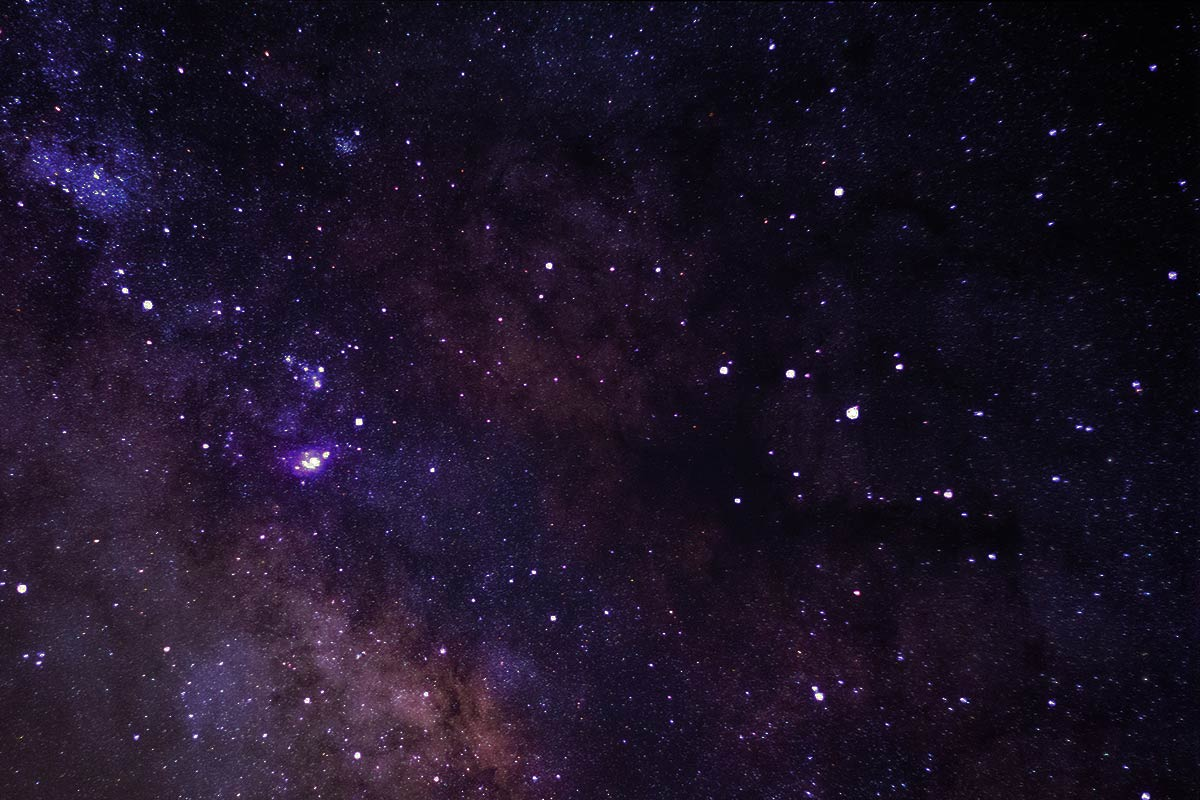
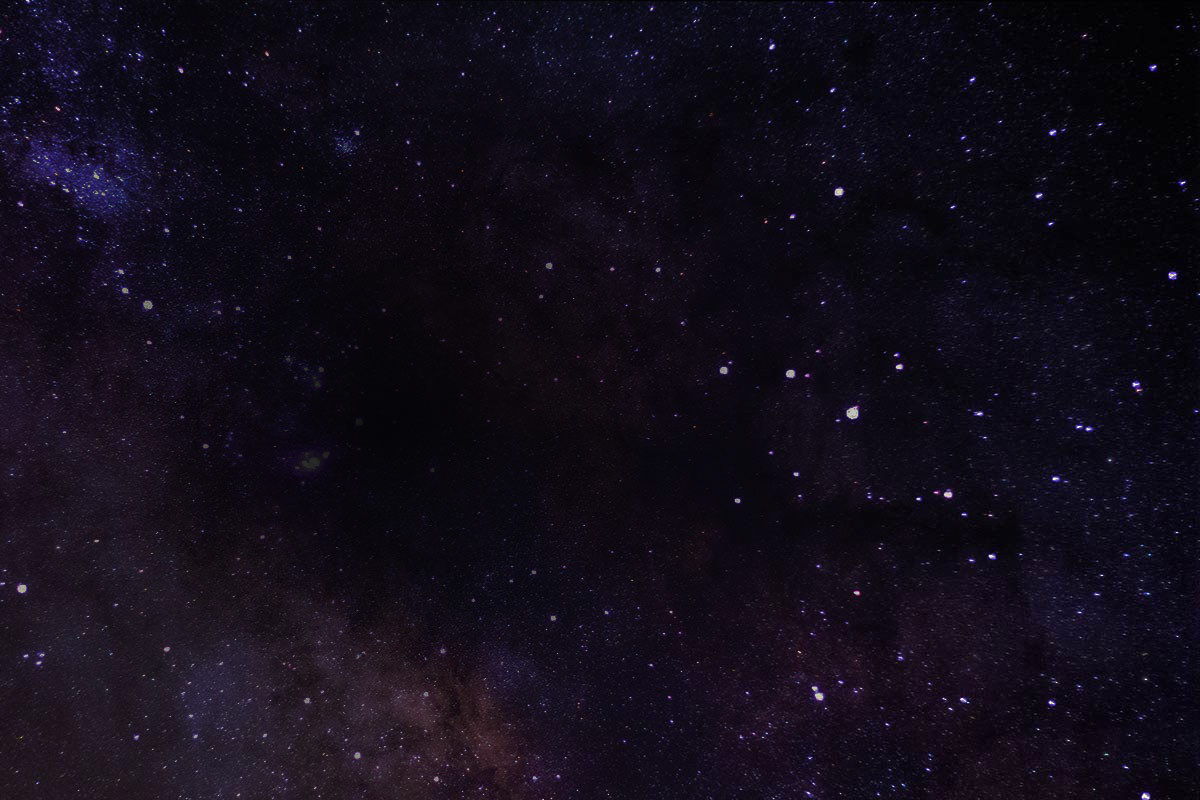
Quick change to anchor customers section and improved bg image (#661)
* Quick change to add id to customers section

* Added radial gradient to make hero text more readable

diff --git a/website/src/components/product/CustomerLogosSection.tsx b/website/src/components/product/CustomerLogosSection.tsx
@@ -5,7 +5,8 @@ const ITEMS: (
           name: string
           url: string
       }
-    | { topN: number; description: string; className: string })[] = [
+    | { topN: number; description: string; className: string }
+)[] = [
     {
         name: 'Cloudflare',
         url: '/external-logos/cloudflare-color-logo.svg',
@@ -94,8 +95,10 @@ export const CustomerLogosSection: React.FunctionComponent<{ trustWhat?: string;
     trustWhat,
     className = '',
 }) => (
-    <div className={`customer-logos-section ${className}`}>
-        <h3 className="text-center font-weight-light">Engineering teams at these companies use Sourcegraph Universal Code Search</h3>
+    <div id="customers" className={`customer-logos-section ${className}`}>
+        <h3 className="text-center font-weight-light">
+            Engineering teams at these companies use Sourcegraph Universal Code Search
+        </h3>
         <div className="container text-center mt-4 d-flex flex-wrap justify-content-center align-items-center line-height-normal">
             {ITEMS.map((logo, i) =>
                 'name' in logo ? (
@@ -111,9 +114,7 @@ export const CustomerLogosSection: React.FunctionComponent<{ trustWhat?: string;
                         className="customer-logos-section__item mx-2 d-flex justify-content-center flex-column"
                     >
                         <div
-                            className={`customer-logos-section__item-logo customer-logos-section__item-logo-synthesized mx-auto border rounded px-3 font-weight-bold d-flex align-items-center ${
-                                logo.className
-                            }`}
+                            className={`customer-logos-section__item-logo customer-logos-section__item-logo-synthesized mx-auto border rounded px-3 font-weight-bold d-flex align-items-center ${logo.className}`}
                         >
                             Top {logo.topN}
                             <br />

diff --git a/website/src/css/pages/_index.scss b/website/src/css/pages/_index.scss
@@ -6,7 +6,7 @@
         background-image: url(/bg-home-universe.jpg);
     	background-repeat: no-repeat;
         background-size: cover;
-        background-position: center center;
+        background-position: center bottom;
         text-shadow: 2px 2px 4px #000000;
     }
     &__intro {
